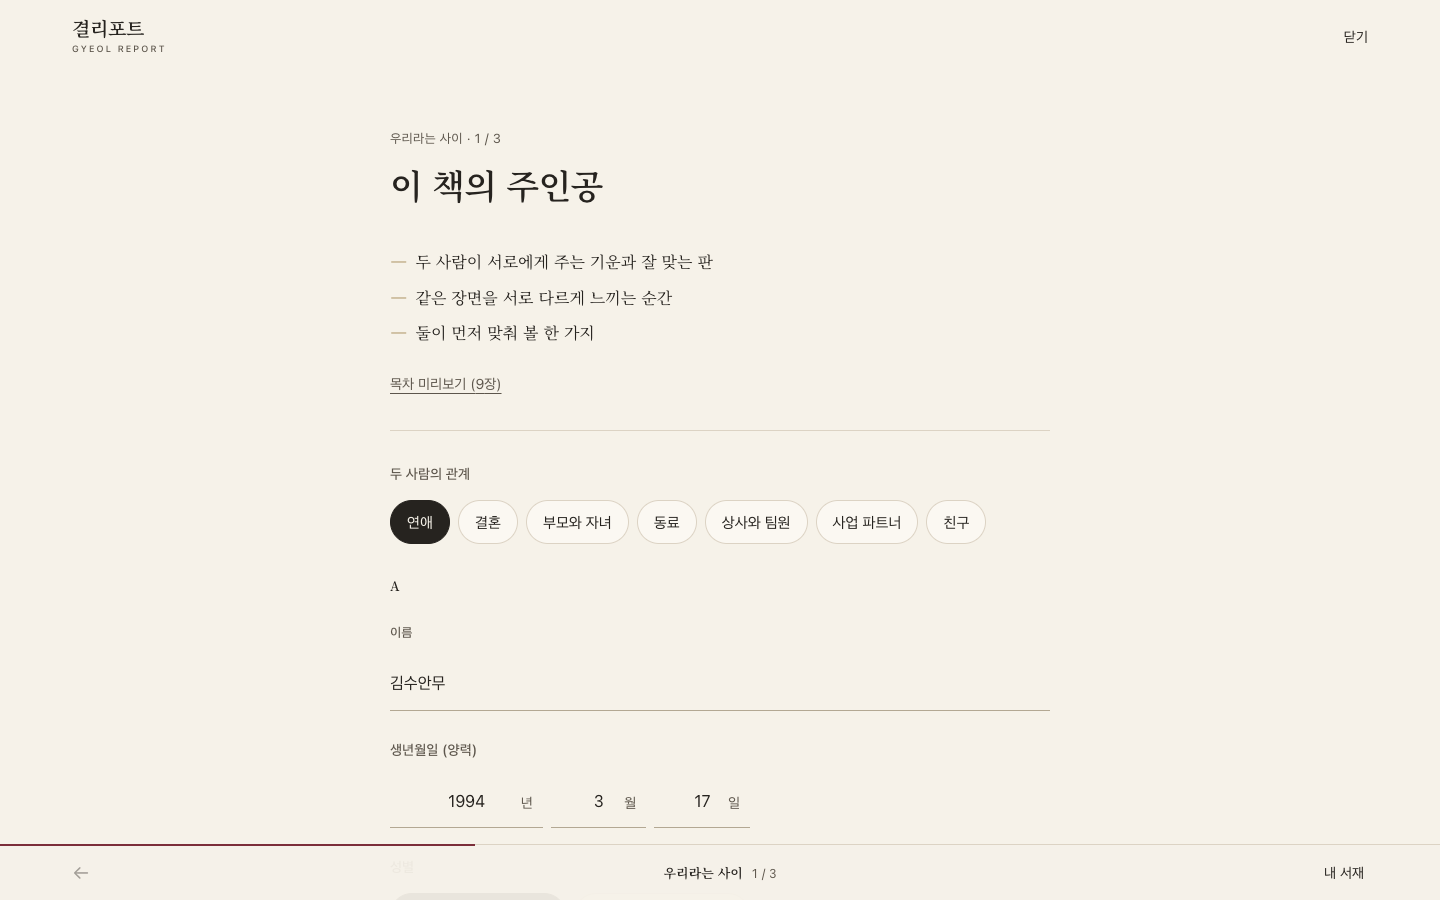
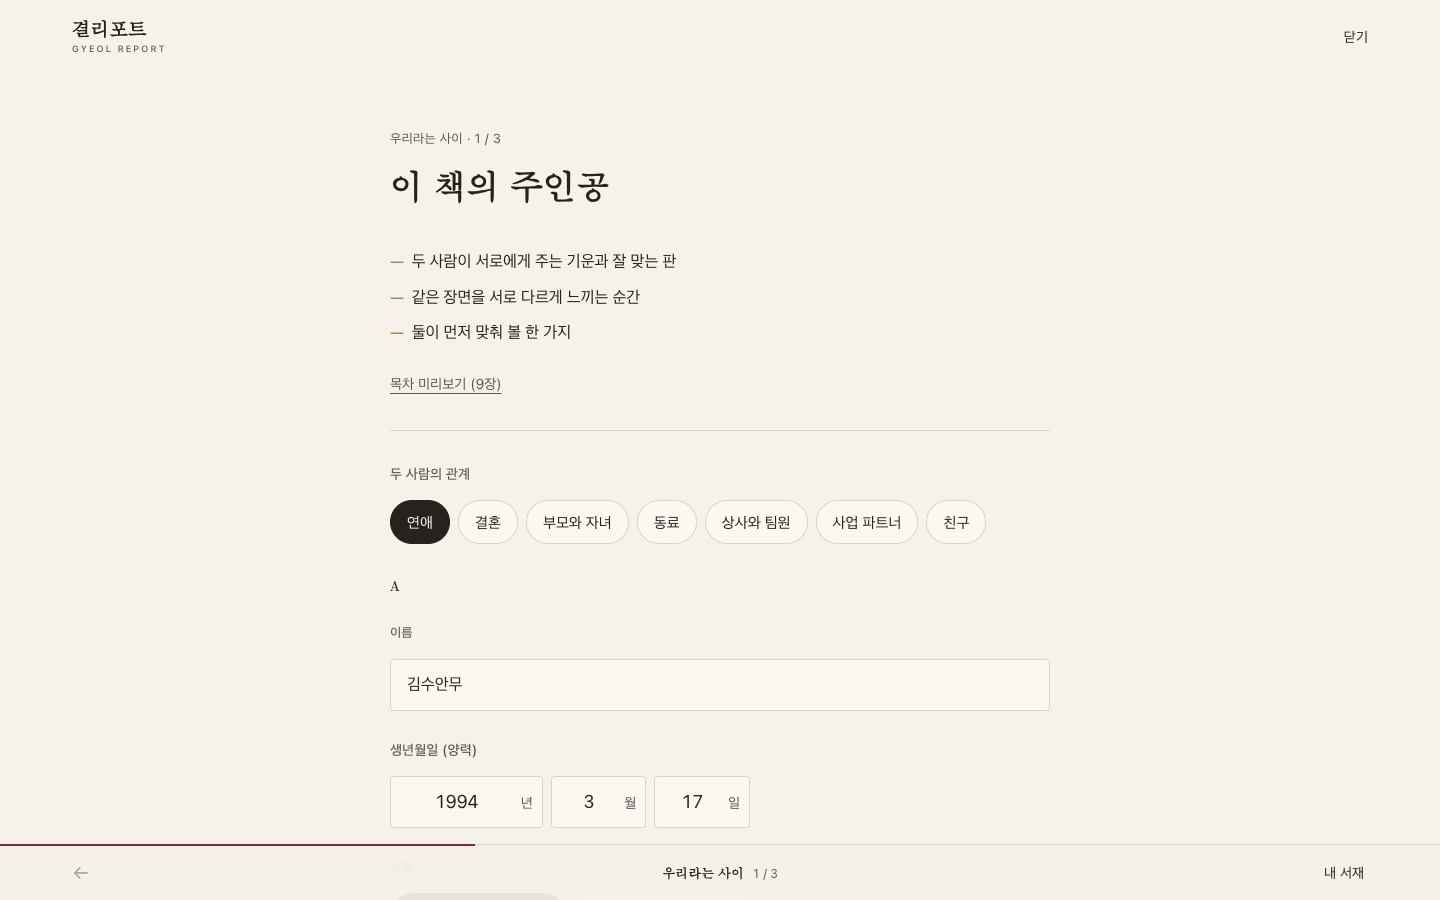
fix(v5/p5): 입력 칸에서 옛 밑줄 입력 규칙 제거, 한글 어절 단위 줄바꿈

diff --git a/src/app/dev/book-preview/book.module.css b/src/app/dev/book-preview/book.module.css
@@ -1,7 +1,7 @@
 /* 결리포트 책 화면(P5 "도서관 열람실"): 토큰은 globals.css. 그림자 1단계, 얇은 선 1종, 여백 4·8 배수,
    모션은 회전 진열·책 넘김·생성 대기·페이지 전환 4곳만(150~400ms ease-out, 동작 줄이기면 정지).
    표지 색은 --cover, 표지 글자색은 --cover-ink(전역 --ink와 이름이 겹치지 않게). */
-.root { --black: var(--ink); --muted: var(--ink-2); --line: 1px solid var(--rule); min-height: 100svh; background: var(--paper); color: var(--ink); font-family: var(--sans); font-size: 16px; overflow-x: clip; -webkit-tap-highlight-color: transparent; }
+.root { --black: var(--ink); --muted: var(--ink-2); --line: 1px solid var(--rule); word-break: keep-all; overflow-wrap: break-word; min-height: 100svh; background: var(--paper); color: var(--ink); font-family: var(--sans); font-size: 16px; overflow-x: clip; -webkit-tap-highlight-color: transparent; }
 :global(body):has(.root) { background: var(--paper); }
 :global(body):has(.root) > footer { display: none; }
 .root *, .root *::before, .root *::after { box-sizing: border-box; }

diff --git a/src/components/book/flow.module.css b/src/components/book/flow.module.css
@@ -1,5 +1,4 @@
 .flow label { display:flex; flex-direction:column; gap:8px; font-size:13px; }
-.flow input:not([type=checkbox]):not([type=radio]), .flow select { min-width:0; width:100%; border:0; border-bottom:1px solid var(--rule-strong); border-radius:0; background:var(--paper); padding:10px 0; font:inherit; font-size:16px; }
 .flow label:has(input[type=checkbox]), .flow label:has(input[type=radio]) { flex-direction:row; align-items:center; }
 .flow fieldset { min-width:0; margin:20px 0; }
 .flow legend { font-size:13px; padding-bottom:8px; }
